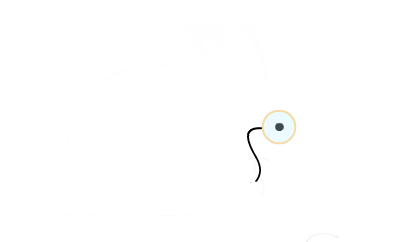
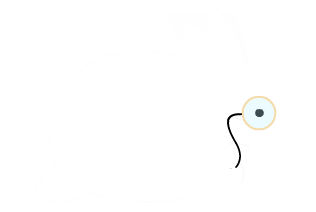
add background images

Changed region(s): [[0.5981, 0.4528, 0.8829, 0.7642], [0.7405, 0.6509, 0.769, 0.7925]]

diff --git a/index.html b/index.html
@@ -22,20 +22,52 @@
 </head>
 <body>
   <div class="main-box color-1">
-      <div class="container">
+      <div class="container title-section">
           <div class="row">
-            <div class="four columns offset-by-four text-box">
+            <div class="four columns">
+              <img id="appear" class="hidden" src="cat-grin.png" alt=""/>
+              <img class="hidden" src="cat-grin.png" alt=""/>
+            </div>
+            <div class="four columns text-box">
               <h1 class="title-text">Bunnykins</h1>
               <h5 class="quote-text">Would you like an adventure now, or shall we have our tea first?</h5>
             </div>
-            <div class="four columns offset-by-four images-box">
-              <!-- <img id="hole" src="hole1.png" /> -->
+            <div class="four columns">
+              <img class="hidden" src="cat-grin.png" alt=""/>
+              <img class="hidden" src="cat-grin.png" alt=""/>
+            </div>
+          </div>
+      </div>
+  </div>
+
+  <div class="main-box color-1">
+      <div class="container image-section">
+          <div class="row">
+            <div class="four columns">
+              <img class="hidden" src="cat-grin.png" alt=""/>
+            </div>
+            <div class="four columns images-box">
               <img id="bunny-img" src="bunny.png" alt=""/>
-              <img id="hole" src="hole1.png" />
             </div>
-            <div class="four columns offset-by-four">
-              <button id="btn">Down the rabbit hole!</button>
+            <div class="four columns">
+              <img class="hidden" src="cat-grin.png" alt=""/>
             </div>
+          </div>
+      </div>
+  </div>
+
+  <div class="main-box color-1">
+      <div class="container btn-section">
+          <div class="row">
+            <!-- <div class="four columns">
+              <img class="hidden" src="cat-grin.png" alt=""/>
+            </div> -->
+            <div class="four columns-offset-by-four">
+              <button id="btn-1">Down the rabbit hole!</button>
+            </div>
+            <!-- <div class="four columns">
+              <img class="hidden" src="cat-grin.png" alt=""/>
+            </div> -->
           </div>
       </div>
   </div>

diff --git a/main.css b/main.css
@@ -1,10 +1,9 @@
 /*Sections*/
 
 .main-box {
-  /*padding: 2rem 0rem 2rem;*/
+  margin-top: 2rem;
   text-align: center;
   /*margin-bottom: 3rem;*/
-  height: 600px;
   padding: 0;
   margin: 0;
   display: flex;
@@ -12,8 +11,16 @@
   justify-content: center;
 }
 
+.title-section {
+  margin-top: 2rem;
+}
+
+/*.image-section {
+
+}*/
+
 .images-box {
-  padding: 2rem 0 5rem 0;
+  padding: 1rem 0 .5rem 0;
 }
 
 .text-box {
@@ -73,14 +80,43 @@
   /*-webkit-animation-iteration-count: 1;*/
 }
 
+#hidden-img-1 {
+   -webkit-animation-duration: 1s;
+   -webkit-animation-delay: 2s;
+ }
+
+#hidden-img-2 {
+  -webkit-animation-duration: 1s;
+  -webkit-animation-delay: 0s;
+}
+
+#hidden-img-3 {
+  -webkit-animation-duration: 1s;
+  -webkit-animation-delay: 1.25s;
+}
+
+#hidden-img-4 {
+  -webkit-animation-duration: 1s;
+  -webkit-animation-delay: 1.5s;
+}
+
+#hidden-img-5 {
+  -webkit-animation-duration: 1s;
+  -webkit-animation-delay: 1.75s;
+}
+
+#hidden-img-6 {
+  -webkit-animation-duration: 1s;
+  -webkit-animation-delay: .5s;
+}
+
 .smaller {
   size: 20%;
 }
 
-#hole {
-  justify-content: center;
-  align-items: center;
-  height: 14rem;
+.hidden {
+  visibility: hidden;
+  -webkit-animation-duration: 2s;
 }
 
 /*Text*/
@@ -100,8 +136,22 @@
 
 /*Button*/
 
-button {
+#btn-1 {
+  border: auto;
+  background-color: black;
+  font: 'Barrio', cursive;
+  color: white;
+  border-color: black;
+  height: 11rem;
+  width: 22rem;
+  -moz-border-radius: 100px / 50px;
+  -webkit-border-radius: 100px / 50px;
+}
+
+#btn-2 {
   border: auto;
   background-color: white;
   font: 'Barrio', cursive;
+  color: black;
+  border-color: black;
 }

diff --git a/main.js b/main.js
@@ -13,7 +13,7 @@ const animation = {
 }
 
 $(document).ready(function() {
-  $("#btn").on("click", function() {
+  $("#btn-1").on("click", function() {
     // state.clickTally = state.clickTally + 1
     // let prevColor = state.color
     // let newColor = pickColor(state.clickTally)
@@ -156,6 +156,11 @@ function pickImg(clickTally) {
   return newImg;
 }
 
+// Make hidden images appear
+function appear(img-name) {
+  $(img-name).removeClass("hidden").addClass("animated fadeIn")
+}
+
 // Change the background color based on the class returned by pickColor function
 function changeColor(prevColor, newColor) {
   $(".main-box").removeClass(prevColor)
@@ -184,6 +189,7 @@ function bounceBunny(bunny) {
     changeColor(prevColor, newColor)
     changeQuote(newQuote)
     changeImg(newImg)
+    appear()
     logColor(newColor)
     $(bunny).addClass(animation.bounceInDown).one(animation.finish, function() {
       $(this).removeClass(animation.bounceInDown)
